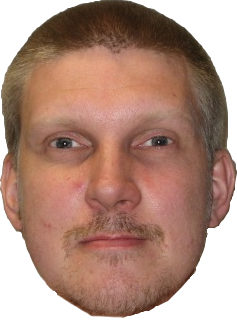
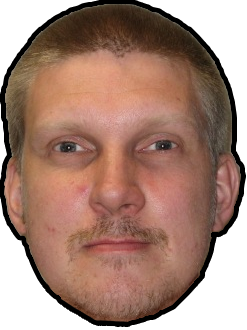
black border to narsu

diff --git a/css/motivaationarsu.css b/css/motivaationarsu.css
@@ -46,10 +46,10 @@ html {
 }
 
 .eye-container {
-    width: 126px;
+    width: 128px;
     position: absolute;
     top: 43%;
-    left: 20%;
+    left: 21%;
 }
 
 .motivation {
